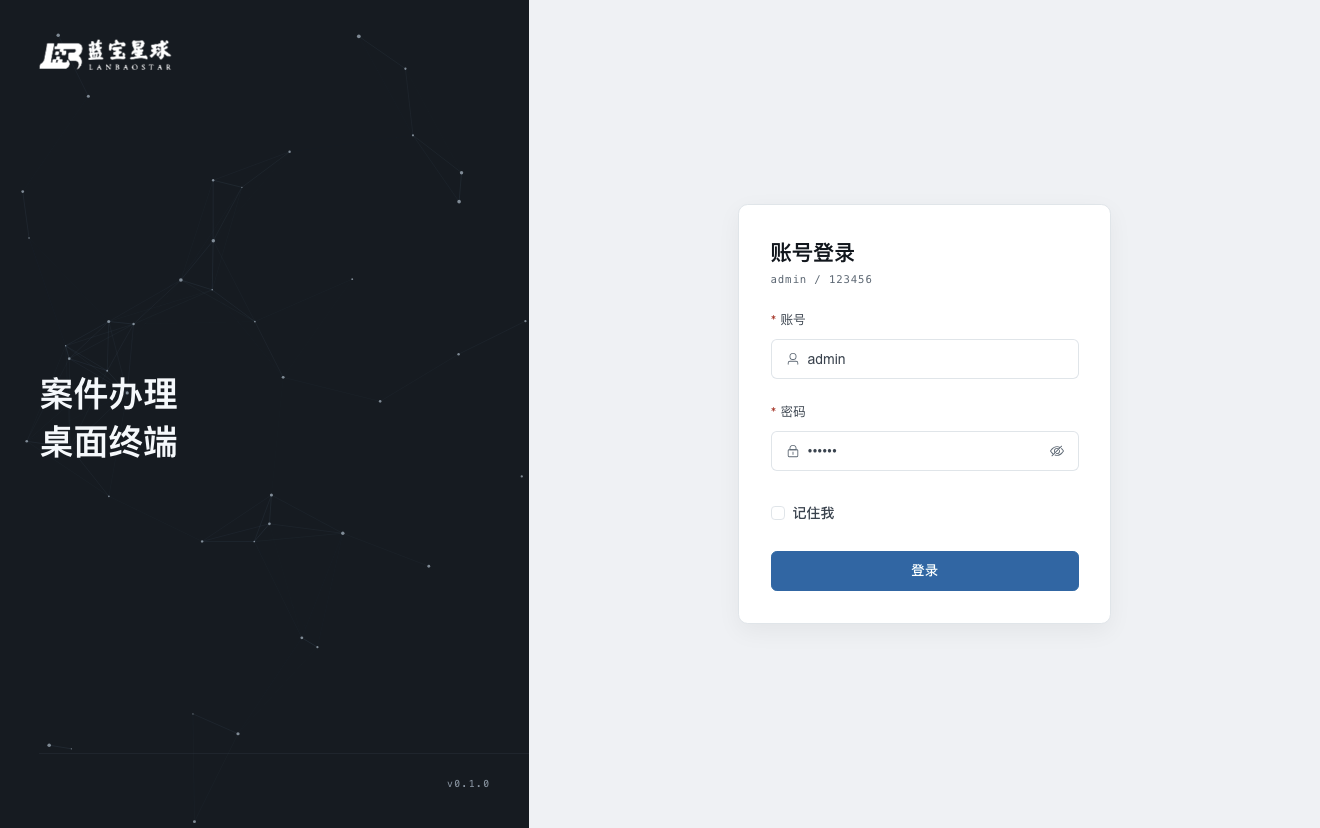
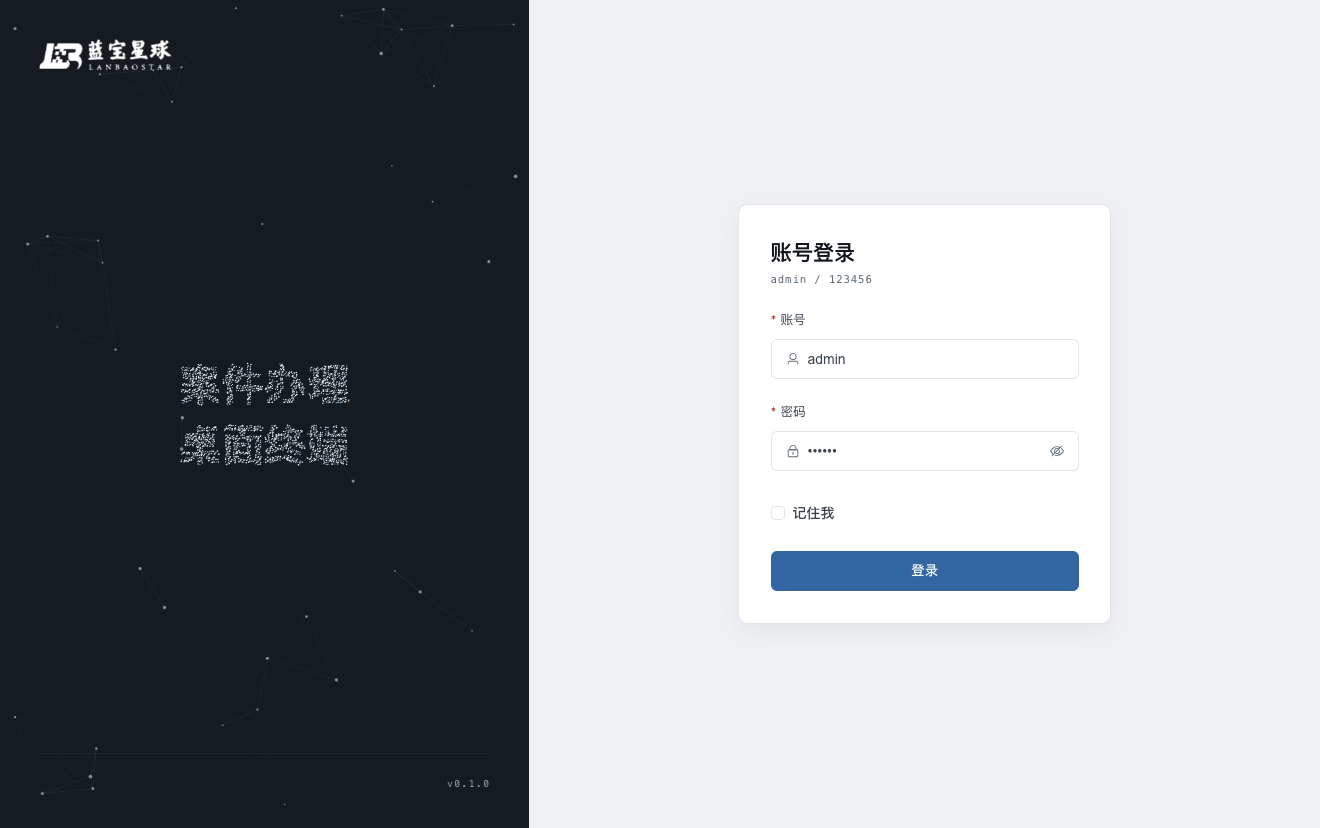
style: 登录标题改为粒子构成并居中
- 新增 ParticleTitle.vue：离屏 canvas 采样字形 -> 粒子原位浮动，ResizeObserver 重采样
- 真实标题保留在 DOM（opacity 0）供读屏与自动化
- 标题在封面内水平垂直居中，底部分隔线改为左右等宽
- 重出 dmg / win zip

Changed region(s): [[0.0311, 0.4227, 0.2795, 0.5737]]

diff --git a/src/renderer/src/components/ParticleTitle.vue b/src/renderer/src/components/ParticleTitle.vue
@@ -1,0 +1,181 @@
+<template>
+  <div class="particle-title">
+    <canvas ref="canvasRef" class="canvas" aria-hidden="true"></canvas>
+    <h1 ref="textRef" class="text" :style="{ fontSize: size }">
+      <span v-for="(line, index) in lines" :key="index" class="line">{{ line }}</span>
+    </h1>
+  </div>
+</template>
+
+<script setup lang="ts">
+import { onBeforeUnmount, onMounted, ref } from 'vue'
+
+interface Grain {
+  hx: number
+  hy: number
+  x: number
+  y: number
+  amp: number
+  speed: number
+  phase: number
+  r: number
+  tone: string
+}
+
+const props = withDefaults(
+  defineProps<{
+    lines: string[]
+    size?: string
+  }>(),
+  { size: 'clamp(1.75rem, 2.6vw + 0.7rem, 2.75rem)' }
+)
+
+const canvasRef = ref<HTMLCanvasElement>()
+const textRef = ref<HTMLElement>()
+let grains: Grain[] = []
+let raf = 0
+let width = 0
+let height = 0
+let dpr = 1
+let reduced = false
+let observer: ResizeObserver | undefined
+
+const TONES = ['rgba(246, 250, 253, 0.96)', 'rgba(214, 231, 243, 0.9)', 'rgba(126, 176, 212, 0.95)']
+
+function sample(): void {
+  const canvas = canvasRef.value
+  const host = textRef.value
+  if (!canvas || !host) return
+
+  const rect = host.getBoundingClientRect()
+  width = Math.max(1, Math.round(rect.width))
+  height = Math.max(1, Math.round(rect.height))
+  dpr = Math.min(window.devicePixelRatio || 1, 2)
+  canvas.width = Math.round(width * dpr)
+  canvas.height = Math.round(height * dpr)
+  canvas.style.width = `${width}px`
+  canvas.style.height = `${height}px`
+
+  const style = getComputedStyle(host)
+  const font = `${style.fontWeight} ${style.fontSize} ${style.fontFamily}`
+  const lineHeight = parseFloat(style.lineHeight) || parseFloat(style.fontSize) * 1.3
+
+  const buffer = document.createElement('canvas')
+  buffer.width = canvas.width
+  buffer.height = canvas.height
+  const ctx = buffer.getContext('2d')
+  if (!ctx) return
+
+  const scale = dpr
+  ctx.scale(scale, scale)
+  ctx.font = font
+  ctx.fillStyle = '#fff'
+  ctx.textAlign = 'center'
+  ctx.textBaseline = 'middle'
+
+  props.lines.forEach((line, index) => {
+    const y = height / 2 + (index - (props.lines.length - 1) / 2) * lineHeight
+    ctx.fillText(line, width / 2, y)
+  })
+
+  const data = ctx.getImageData(0, 0, buffer.width, buffer.height).data
+  const step = Math.max(2, Math.round(2 * scale))
+  const next: Grain[] = []
+
+  for (let y = 0; y < buffer.height; y += step) {
+    for (let x = 0; x < buffer.width; x += step) {
+      const alpha = data[(y * buffer.width + x) * 4 + 3]
+      if (alpha < 120) continue
+      const hue = Math.random()
+      next.push({
+        hx: x / scale + (Math.random() - 0.5) * 0.9,
+        hy: y / scale + (Math.random() - 0.5) * 0.9,
+        x: x / scale,
+        y: y / scale,
+        amp: 0.25 + Math.random() * 0.55,
+        speed: 0.5 + Math.random() * 0.9,
+        phase: Math.random() * Math.PI * 2,
+        r: 0.5 + Math.random() * 0.4,
+        tone: hue > 0.93 ? TONES[2] : hue > 0.6 ? TONES[1] : TONES[0]
+      })
+    }
+  }
+
+  grains = next
+  if (reduced) drawFrame(0)
+}
+
+function drawFrame(time: number): void {
+  const canvas = canvasRef.value
+  const ctx = canvas?.getContext('2d')
+  if (!canvas || !ctx) return
+
+  ctx.setTransform(dpr, 0, 0, dpr, 0, 0)
+  ctx.clearRect(0, 0, width, height)
+
+  const t = time / 1000
+  for (const grain of grains) {
+    const tx = grain.hx + Math.sin(t * grain.speed + grain.phase) * grain.amp
+    const ty = grain.hy + Math.cos(t * grain.speed * 0.8 + grain.phase) * grain.amp
+    grain.x += (tx - grain.x) * 0.22
+    grain.y += (ty - grain.y) * 0.22
+    ctx.fillStyle = grain.tone
+    ctx.beginPath()
+    ctx.arc(grain.x, grain.y, grain.r, 0, Math.PI * 2)
+    ctx.fill()
+  }
+}
+
+function loop(now: number): void {
+  drawFrame(now)
+  raf = requestAnimationFrame(loop)
+}
+
+onMounted(() => {
+  reduced = window.matchMedia('(prefers-reduced-motion: reduce)').matches
+  sample()
+  if (textRef.value) {
+    observer = new ResizeObserver(() => {
+      sample()
+    })
+    observer.observe(textRef.value)
+  }
+  if (!reduced) raf = requestAnimationFrame(loop)
+})
+
+onBeforeUnmount(() => {
+  cancelAnimationFrame(raf)
+  observer?.disconnect()
+})
+</script>
+
+<style scoped>
+.particle-title {
+  position: relative;
+  display: inline-block;
+  padding: 0.5rem 1rem;
+}
+
+.text {
+  position: relative;
+  margin: 0;
+  display: block;
+  text-align: center;
+  line-height: 1.42;
+  font-weight: 600;
+  letter-spacing: 0.01em;
+  color: transparent;
+  opacity: 0;
+  user-select: none;
+}
+
+.line {
+  display: block;
+}
+
+.canvas {
+  position: absolute;
+  inset: 0.5rem 1rem;
+  pointer-events: none;
+}
+</style>

diff --git a/src/renderer/src/views/LoginView.vue b/src/renderer/src/views/LoginView.vue
@@ -7,7 +7,7 @@
       </header>
 
       <div class="cover-copy">
-        <h1>案件办理<br />桌面终端</h1>
+        <ParticleTitle :lines="['案件办理', '桌面终端']" />
       </div>
 
       <footer class="cover-foot mono">
@@ -61,6 +61,7 @@ import { Lock, User } from '@element-plus/icons-vue'
 import { setUser } from '@/stores/session'
 import logoLight from '@/assets/logo-light.png'
 import ParticleField from '@/components/ParticleField.vue'
+import ParticleTitle from '@/components/ParticleTitle.vue'
 
 const router = useRouter()
 const route = useRoute()
@@ -141,7 +142,7 @@ async function submit(): Promise<void> {
   content: '';
   position: absolute;
   left: clamp(1.5rem, 3vw, 2.5rem);
-  right: 0;
+  right: clamp(1.5rem, 3vw, 2.5rem);
   bottom: 4.75rem;
   height: 1px;
   background: var(--night-2);
@@ -158,13 +159,9 @@ async function submit(): Promise<void> {
   height: auto;
 }
 
-.cover-copy h1 {
-  margin: 0;
-  font-size: clamp(1.5rem, 2.2vw + 0.6rem, 2.25rem);
-  line-height: 1.35;
-  font-weight: 600;
-  letter-spacing: -0.01em;
-  color: #f4f8fb;
+.cover-copy {
+  display: flex;
+  justify-content: center;
 }
 
 .cover-foot {

diff --git a/DESIGN.md b/DESIGN.md
@@ -92,8 +92,9 @@
 三处，都有明确用途：
 
 1. 导航项与面板行在 160ms 内完成底色/颜色变化，行尾箭头 hover 右移 0.1875rem——回答「我在哪、能不能点」。
-2. 登录页封面的粒子星图（`src/renderer/src/components/ParticleField.vue`）：44 个缓慢漂移的点 + 140px 内的连边，用 canvas 绘制，点 `rgba(206,226,241,.62)`、线 `rgba(122,176,214)` 到 0.2 不透明度；密度与亮度都压在同层文字的对比之下，只做「港口夜航」的气氛，不与表单抢注意力。窗口尺寸变化时按 `ResizeObserver` 重算并乘 `devicePixelRatio`，且封面上所有内容都在粒子之上（`z-index: 1`）。
-3. 运行时 `prefers-reduced-motion: reduce` 时，前两处全部降为 0ms，粒子只画静止的一帧。
+2. 登录页标题「案件办理 / 桌面终端」本身就是粒子构成（`src/renderer/src/components/ParticleTitle.vue`）：把两行标题在离屏 canvas 上按真实字号绘制、逐像素采样（2px 步长），在采样点上生成粒子，粒子绕各自原点做 0.25–0.8px 的正弦浮动，字因此会「呼吸」但始终可读。真实文字保留在 DOM 里（`opacity: 0`），读屏与自动化仍能取到标题；采样与容器尺寸绑定，`ResizeObserver` 触发重采样，窗口缩放不会糊。标题在封面内水平、垂直居中，与右侧表单卡形成对称。
+3. 封面背景的粒子星图（`src/renderer/src/components/ParticleField.vue`）：44 个缓慢漂移的点 + 140px 内的连边，用 canvas 绘制，点 `rgba(206,226,241,.62)`、线 `rgba(122,176,214)` 到 0.2 不透明度；密度与亮度都压在同层文字的对比之下，只做「港口夜航」的气氛，不与表单抢注意力。窗口尺寸变化时按 `ResizeObserver` 重算并乘 `devicePixelRatio`，且封面上所有内容都在粒子之上（`z-index: 1`）。
+4. 运行时 `prefers-reduced-motion: reduce` 时，前两处全部降为 0ms，两处粒子都只画静止的一帧。
 
 ## 无障碍
 
